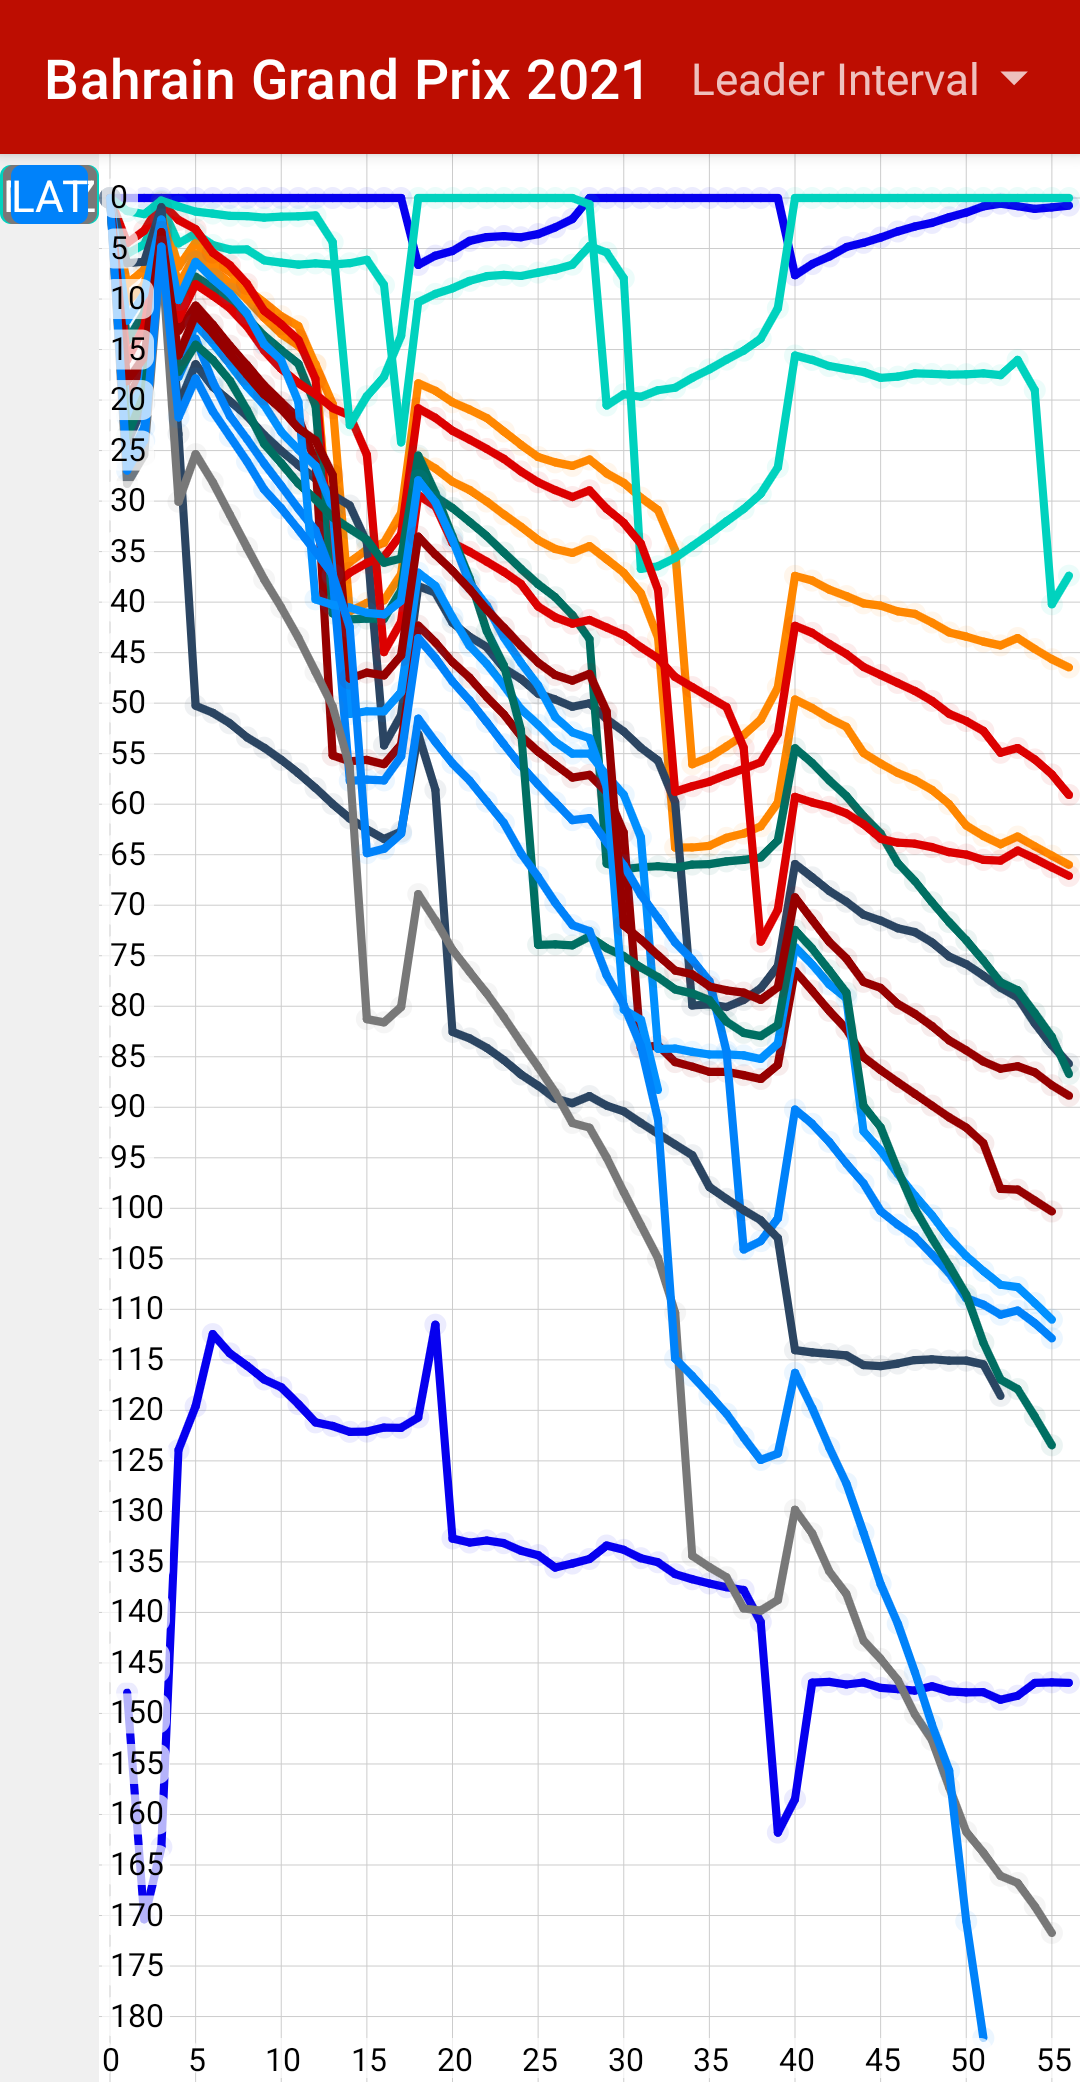
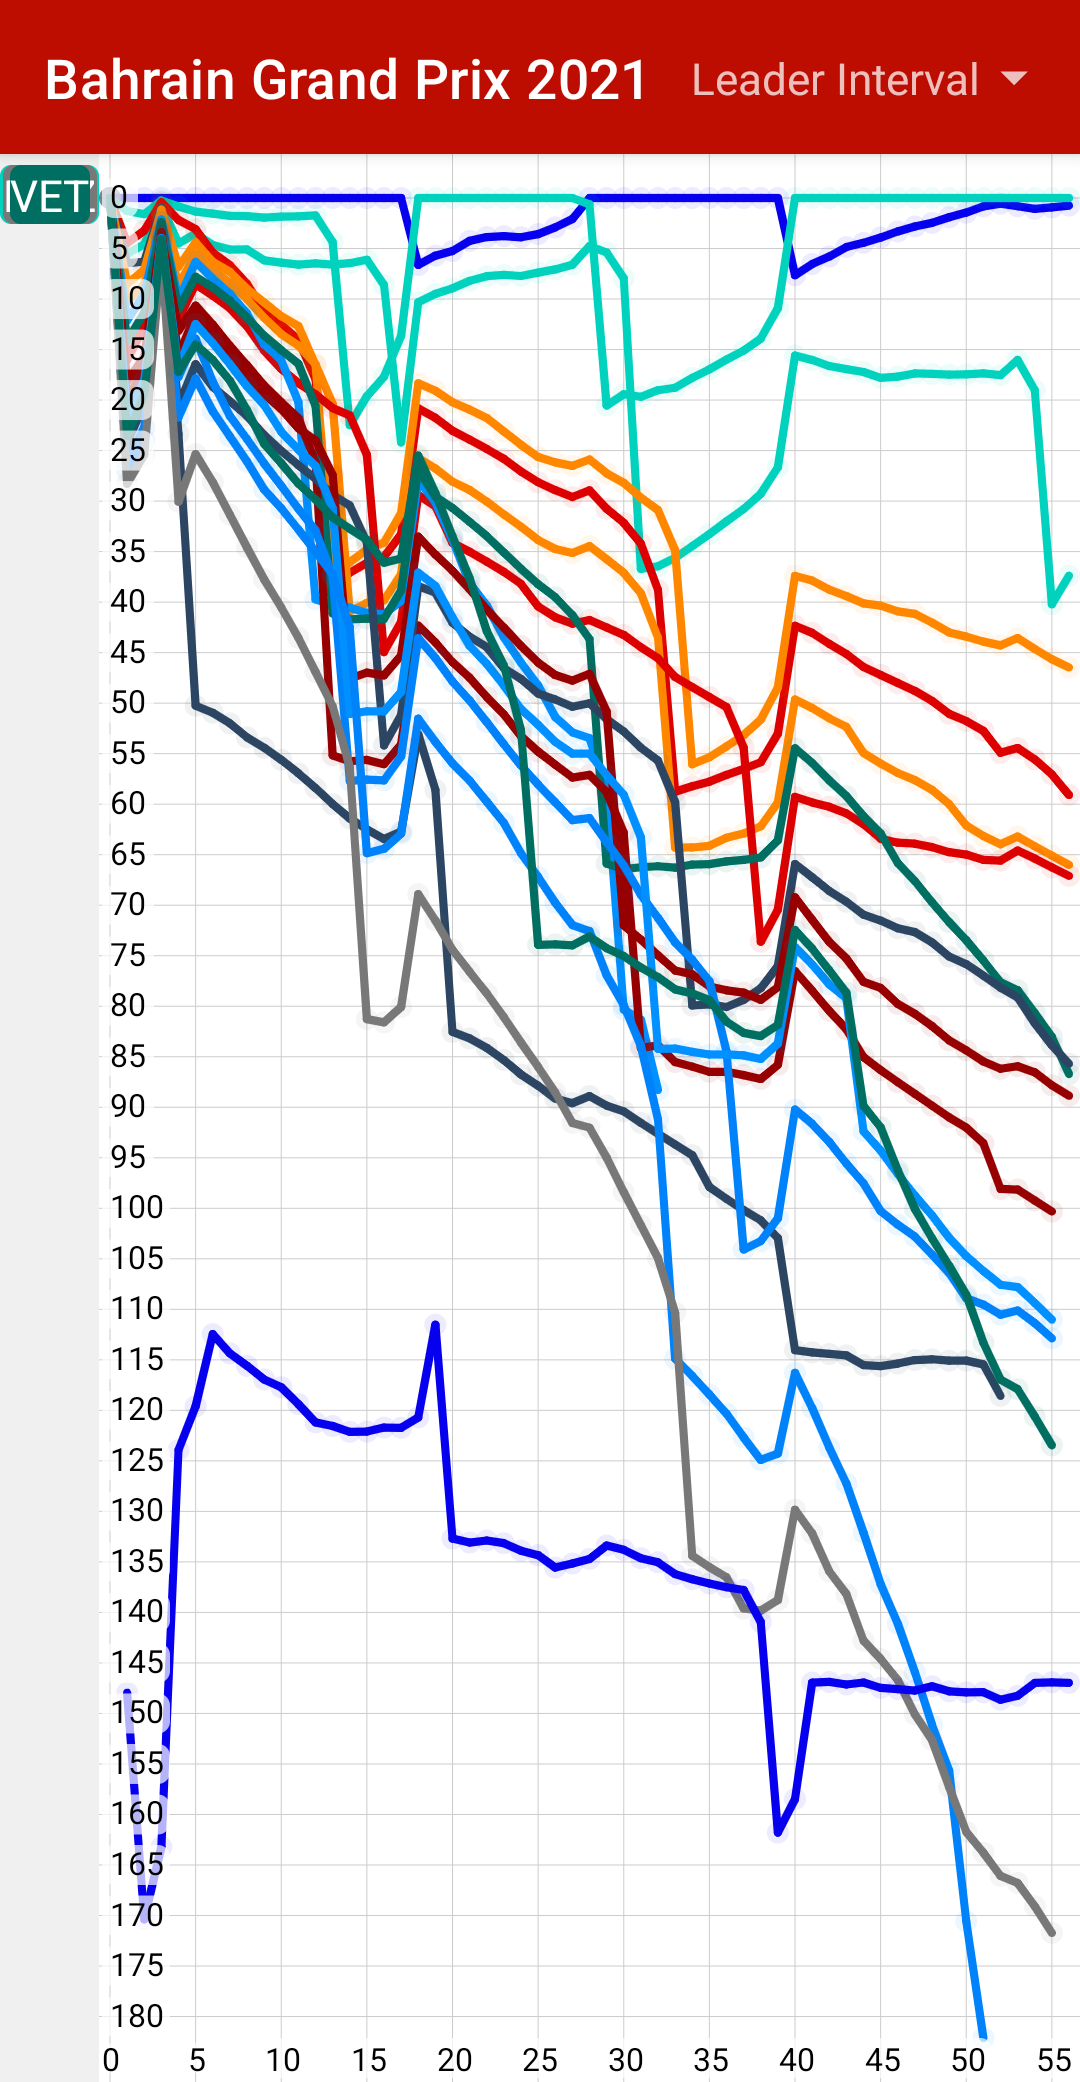
screenshots updates

diff --git a/app/src/androidTest/java/com/jventrib/formulainfo/ui/MainScreenTest.kt b/app/src/androidTest/java/com/jventrib/formulainfo/ui/MainScreenTest.kt
@@ -38,8 +38,6 @@ class MainScreenTest : ScreenshotTest {
         waitForNode("Bahrain Grand Prix").performTouchInput {
             swipeDown(300f, 1600f, 500L)
         }
-        Thread.sleep(5000)
-        compareScreenshot(composeTestRule, "schedule")
         waitForNode("Bahrain Grand Prix").performClick()
 
         // In Bahrain 2022 result page
@@ -49,7 +47,9 @@ class MainScreenTest : ScreenshotTest {
         // Back to schedule
         waitForNode("2022", false).performClick()
         composeTestRule.onNodeWithText("2021").assertExists().performClick()
-        Thread.sleep(2000)
+        val name = "schedule"
+        screenshot(name)
+
         // Select year 2021
         waitForNode("Bahrain Grand Prix").performClick()
         waitForNode("Bahrain Grand Prix").performTouchInput {
@@ -57,7 +57,7 @@ class MainScreenTest : ScreenshotTest {
         }
         // In Bahrain 2021 result page
         waitForNode("2:Max Verstappen").performClick()
-        compareScreenshot(composeTestRule, "laps")
+        screenshot("laps")
 
         // In verstappen Bahrain 2021 result page
         Espresso.pressBack()
@@ -66,11 +66,11 @@ class MainScreenTest : ScreenshotTest {
         waitForNode("Bahrain Grand Prix")
         composeTestRule.onNodeWithTag("standing").assertExists().performClick()
         waitForNode("25 pts")
-        compareScreenshot(composeTestRule, "race standing")
+        screenshot("race standing")
         Espresso.pressBack()
 
         waitForNodeFromTag("resultChart").performClick()
-        compareScreenshot(composeTestRule, "leader interval")
+        screenshot("leader interval")
 
         waitForNode("Leader Interval").performClick()
         composeTestRule.onNodeWithText("Position by lap").assertExists().performClick()
@@ -82,9 +82,13 @@ class MainScreenTest : ScreenshotTest {
         // In 2021 schedule
         waitForNodeFromTag("standing").performClick()
         waitForNodeFromTag("standingChart").performClick()
-        compareScreenshot(composeTestRule, "standingchart")
+        screenshot("standingchart")
         waitForNodeFromTag("standing").performClick()
         waitForNode("395,5")
+    }
+
+    private fun screenshot(name: String) {
+        compareScreenshot(composeTestRule, name)
     }
 
     private fun waitForNode(text: String, substring: Boolean = true): SemanticsNodeInteraction {

diff --git a/app/src/main/java/com/jventrib/formulainfo/ui/race/chart/LeaderIntervalChart.kt b/app/src/main/java/com/jventrib/formulainfo/ui/race/chart/LeaderIntervalChart.kt
@@ -54,7 +54,7 @@ fun LeaderIntervalChart(lapsByResult: Map<Result, List<Lap>>) {
             entry.key.constructor.color,
             entry.key.driver.code ?: entry.key.driver.driverId.take(3)
         )
-    }
+    }.sortedBy { it.seriePoints.first().element?.position }
 
     Chart(
         series = series,
